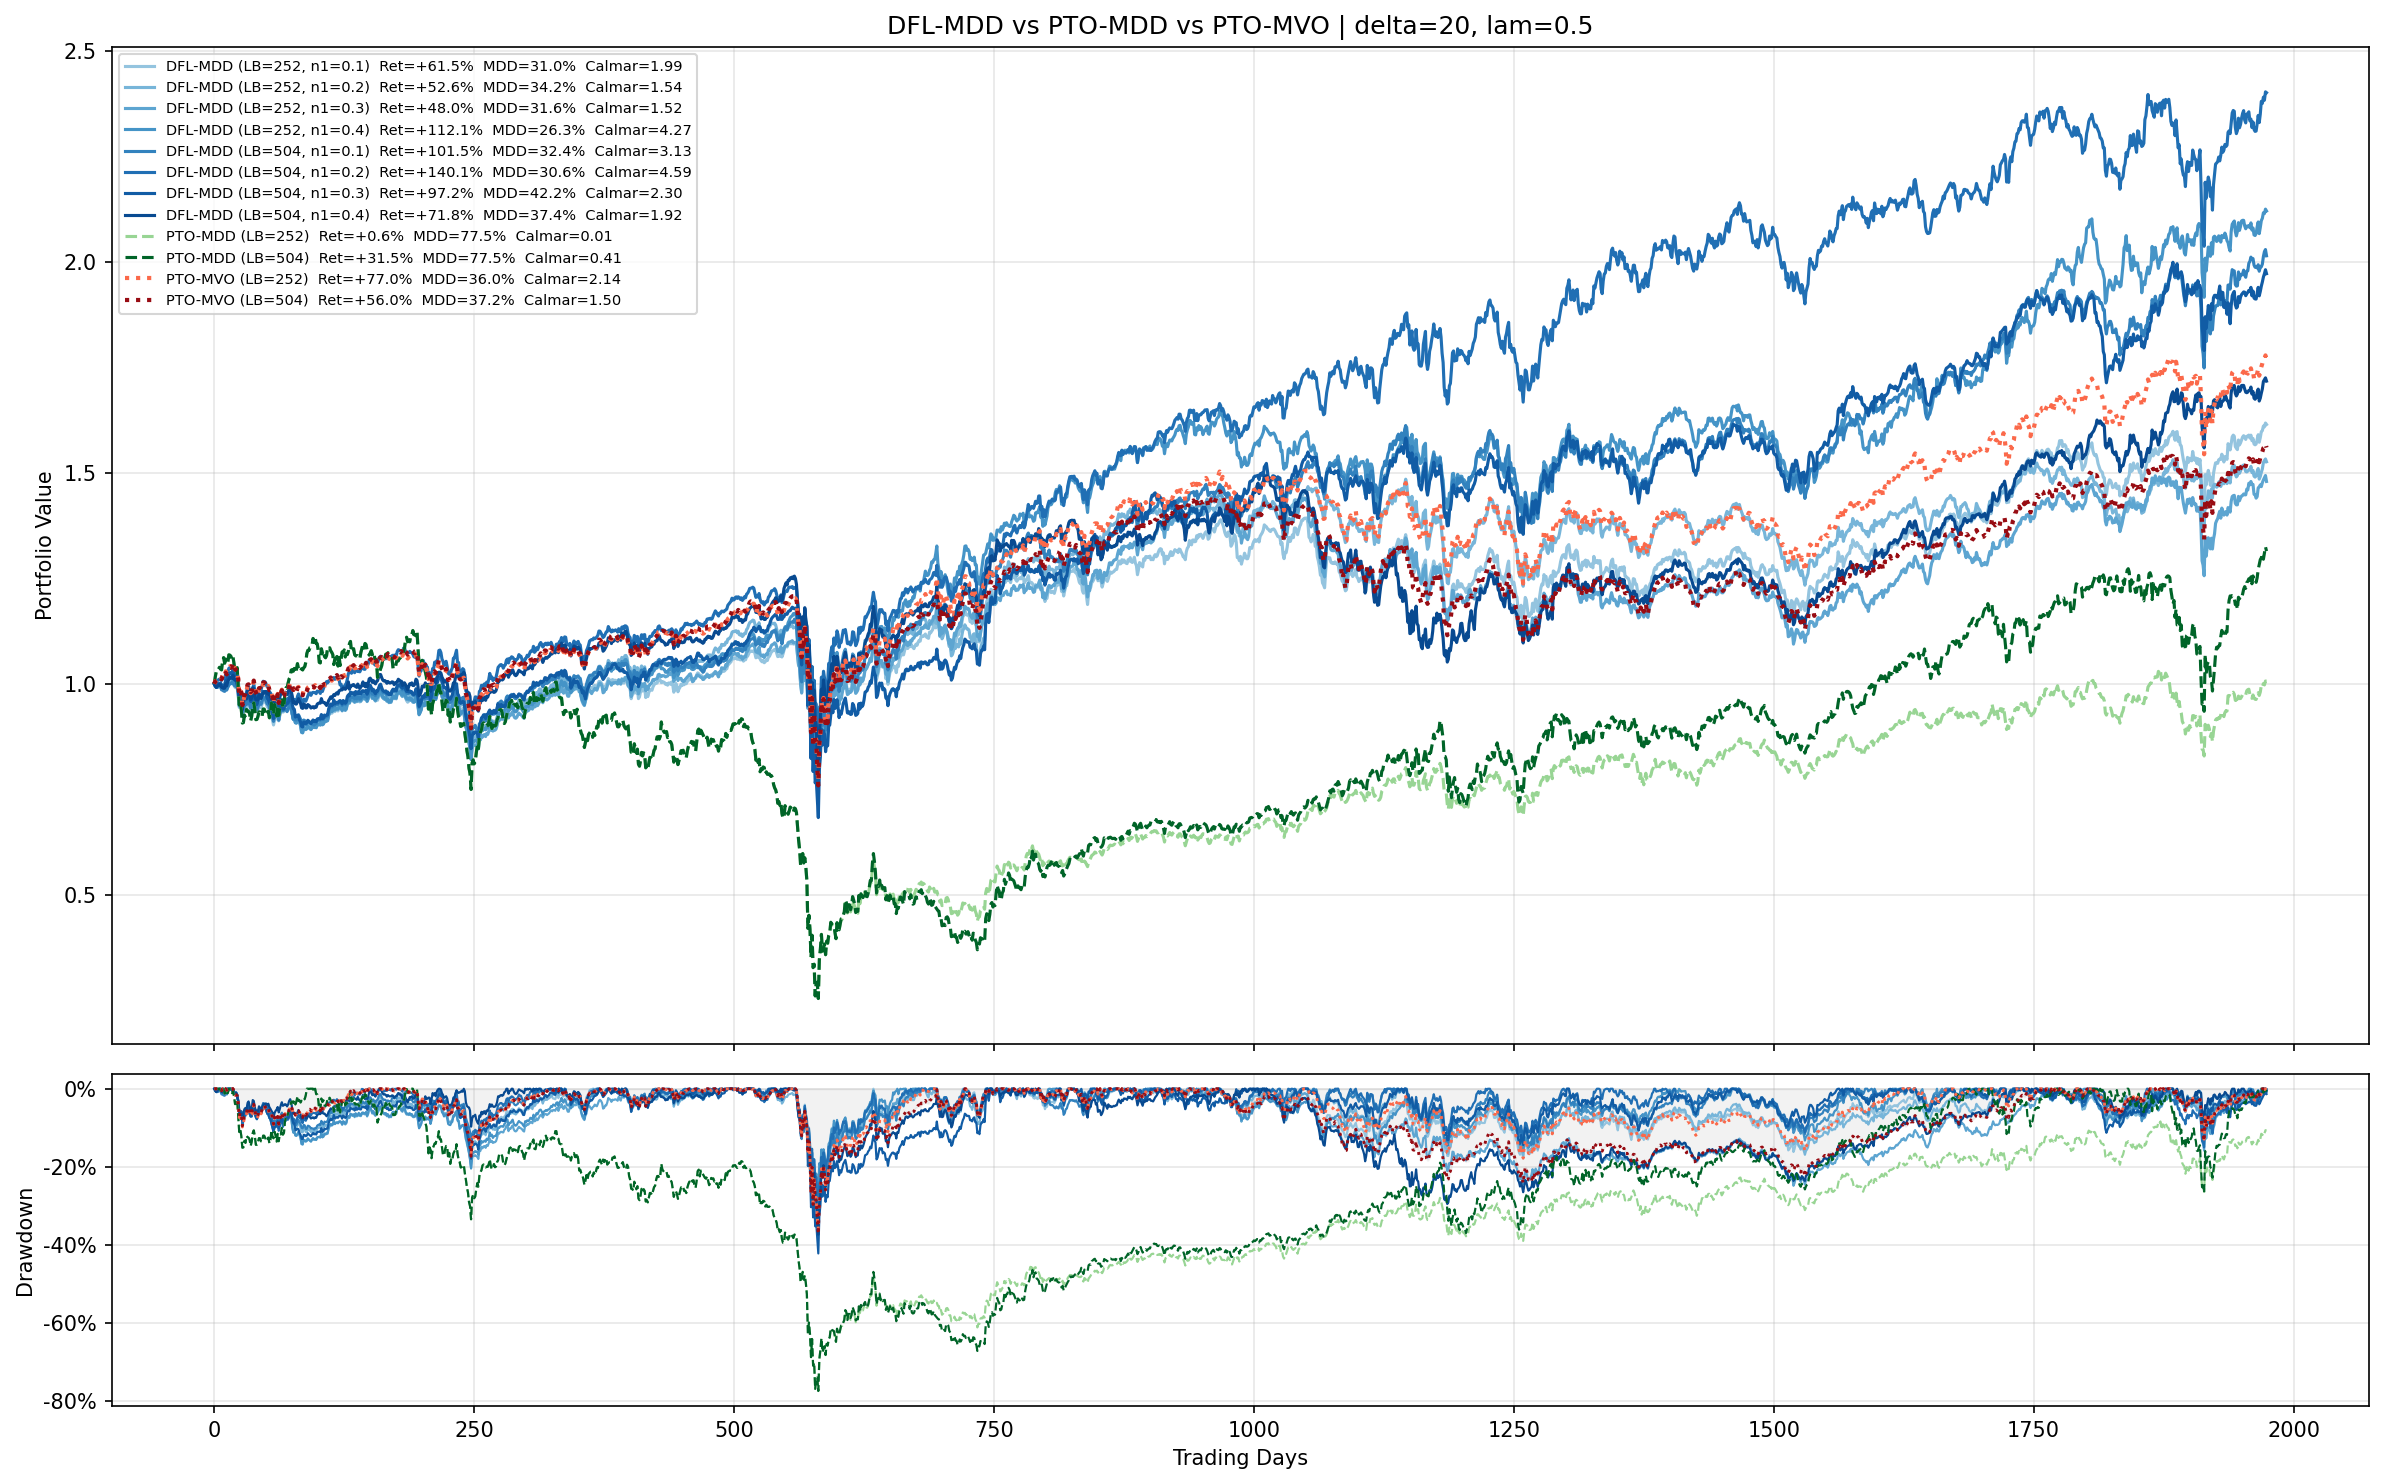
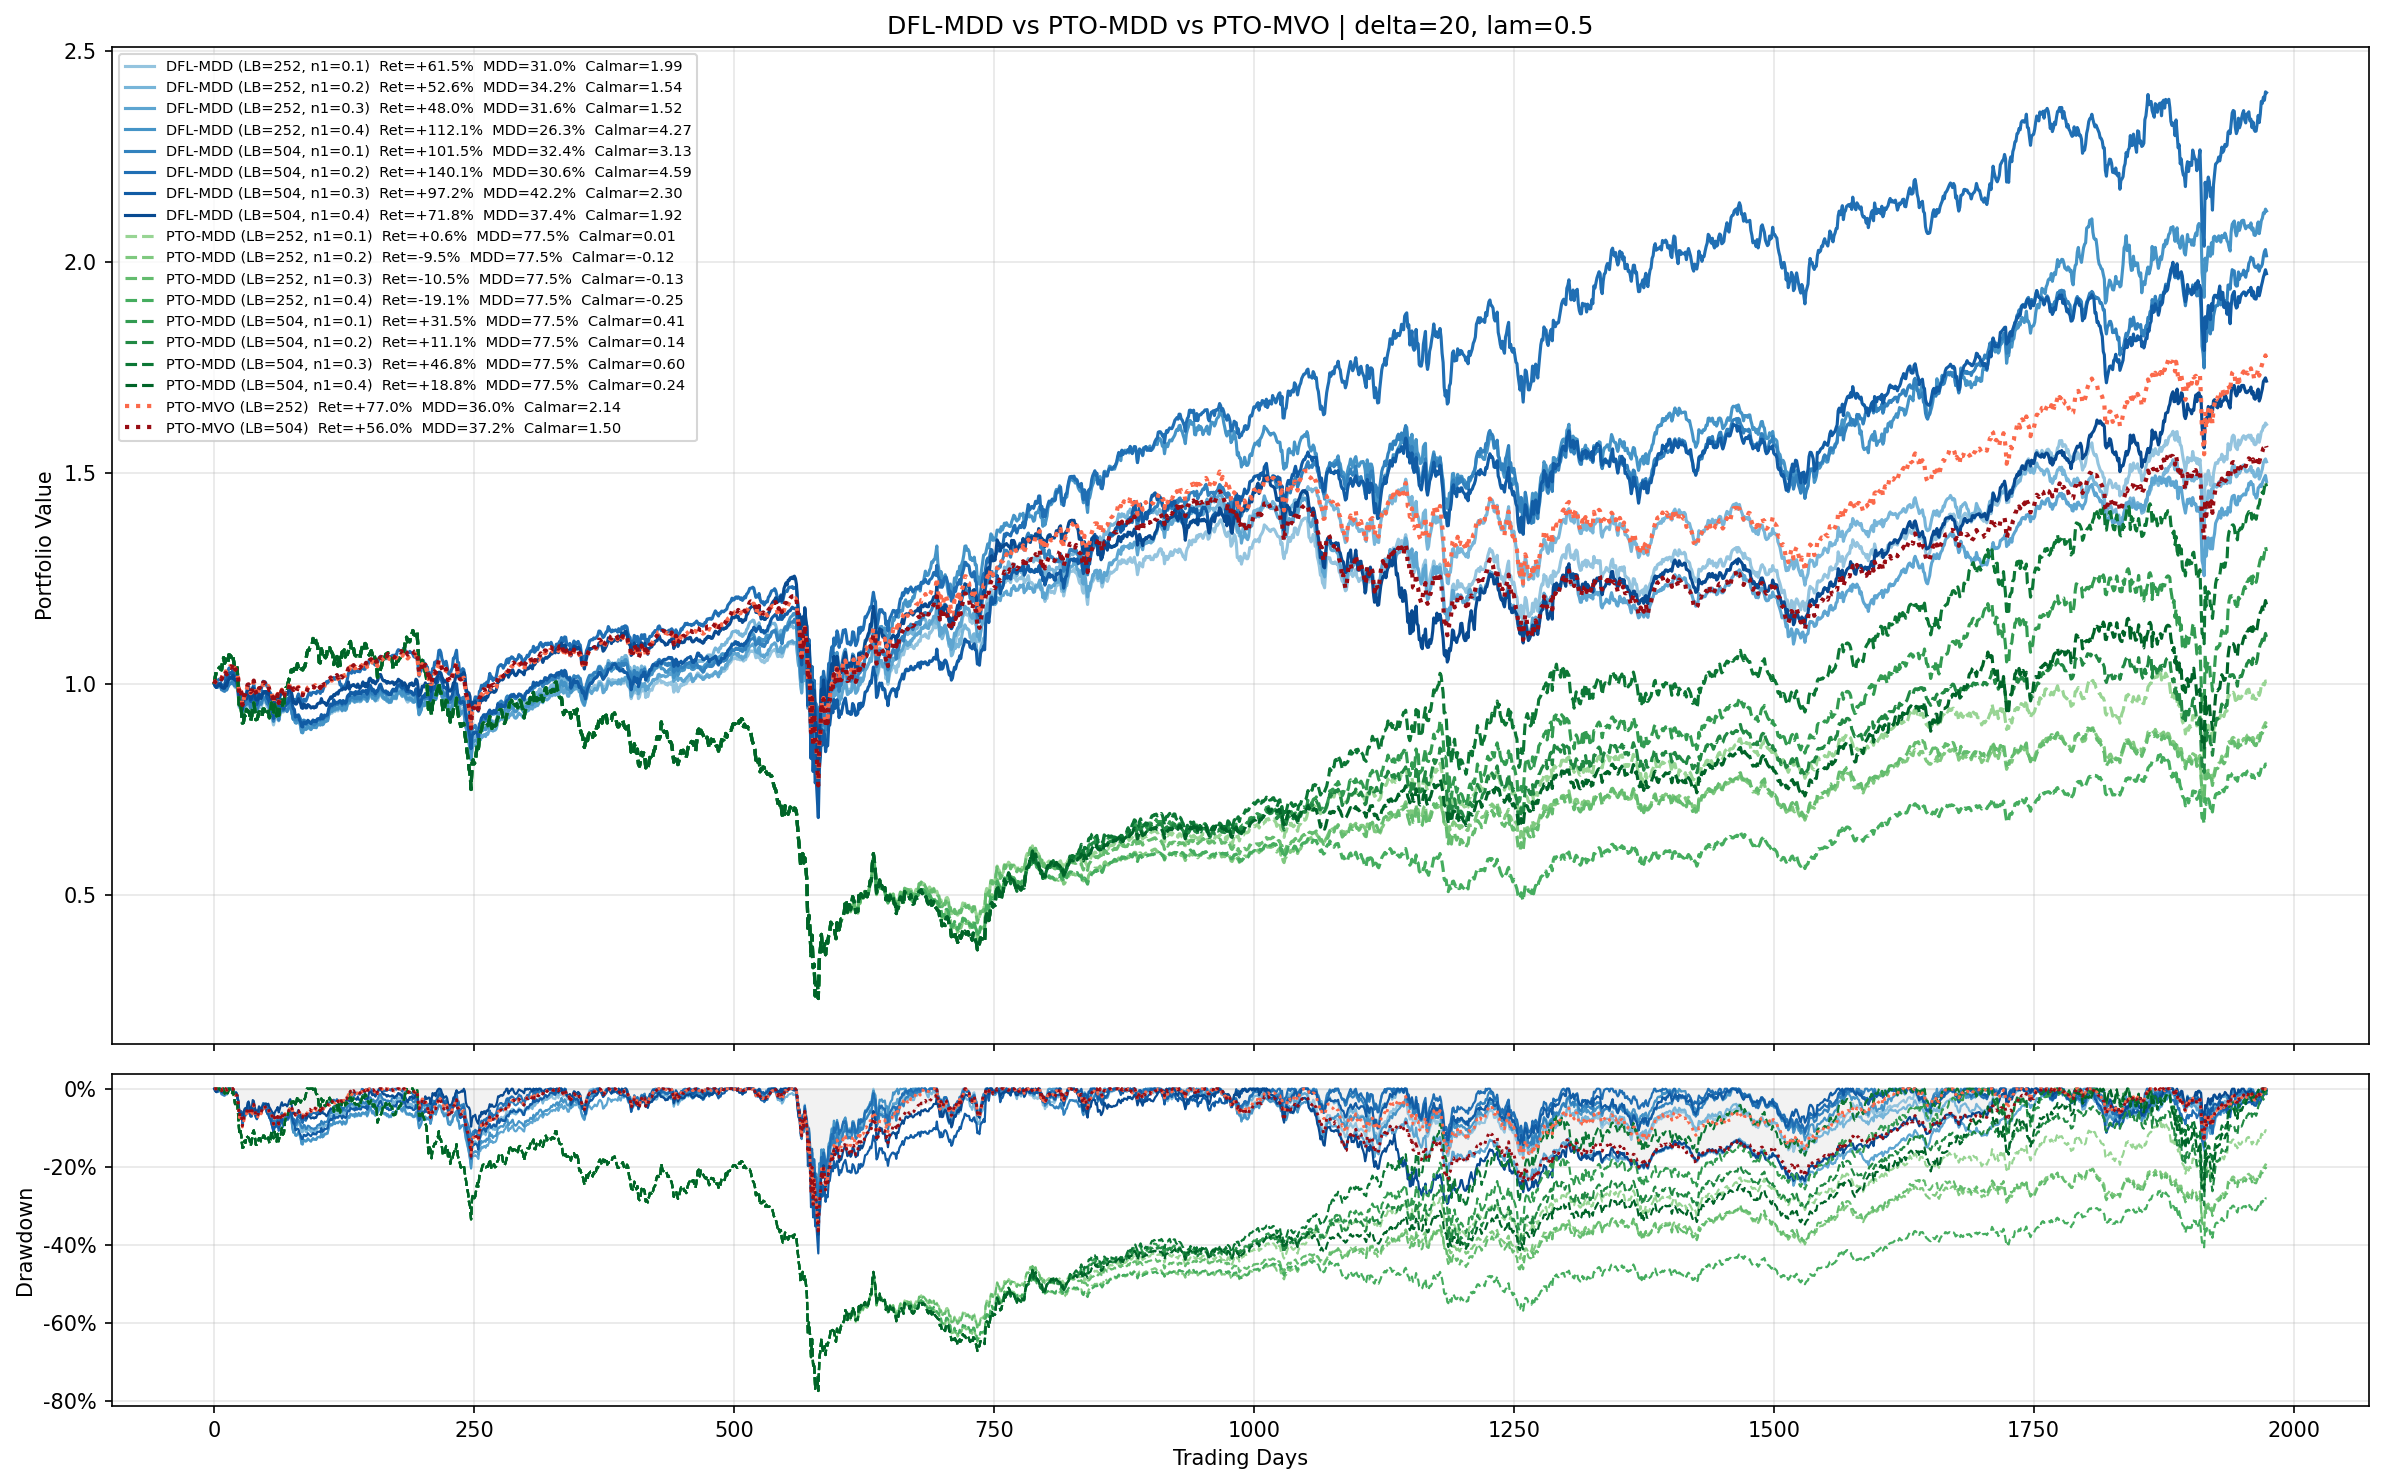
update plots

diff --git a/DFL-MDD/plot_utils.py b/DFL-MDD/plot_utils.py
@@ -121,14 +121,11 @@ def plot_overall_comparison(dfl_results_store, all_results_pto_mdd, all_results_
 
             all_results_dfl_mdd = dfl_results_store[(delta_val, lam_val)]
 
-            pto_mdd_repr = [
-                next((res, lbl) for res, lbl in all_results_pto_mdd
-                     if f"LB={lb}" in lbl)
-                for lb in LOOKBACK_LIST
-            ]
+            # PTO-MDD: n1별로 모두 표시
+            pto_mdd_all = all_results_pto_mdd
 
             n_dfl = len(all_results_dfl_mdd)
-            n_mdd = len(pto_mdd_repr)
+            n_mdd = len(pto_mdd_all)
             n_mvo = len(all_results_mvo)
 
             dfl_colors = [DFL_CMAP(v) for v in np.linspace(0.4, 0.9, max(n_dfl, 1))]
@@ -145,9 +142,8 @@ def plot_overall_comparison(dfl_results_store, all_results_pto_mdd, all_results_
             for (res, lbl), color in zip(all_results_dfl_mdd, dfl_colors):
                 dd_last = _plot_item(ax_pnl, ax_dd, res, lbl, color, linewidth=1.5)
 
-            for (res, lbl), color in zip(pto_mdd_repr, mdd_colors):
-                lbl_clean = f"PTO-MDD (LB={lbl.split('LB=')[1].split(',')[0].strip()})"
-                dd_last = _plot_item(ax_pnl, ax_dd, res, lbl_clean, color,
+            for (res, lbl), color in zip(pto_mdd_all, mdd_colors):
+                dd_last = _plot_item(ax_pnl, ax_dd, res, lbl, color,
                                      linewidth=1.5, linestyle="--")
 
             for (res, lbl), color in zip(all_results_mvo, mvo_colors):